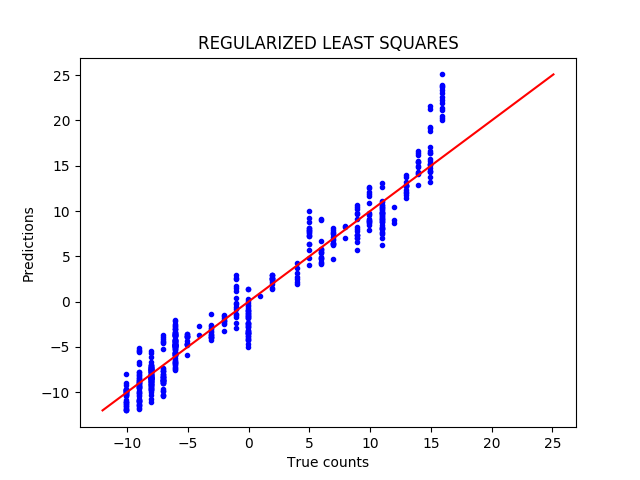
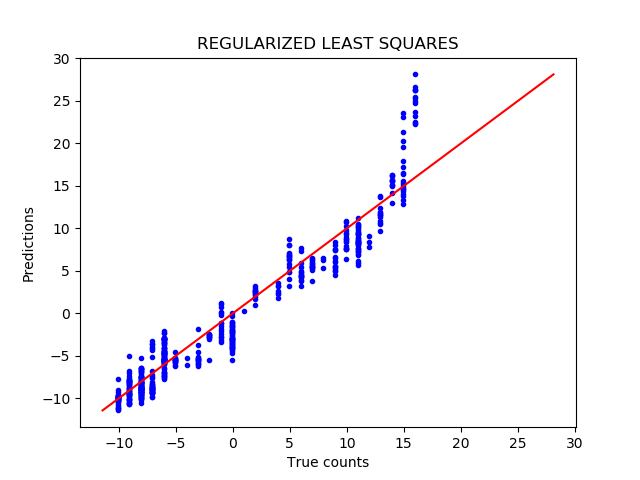
2b

diff --git a/src/common.py b/src/common.py
@@ -9,6 +9,9 @@ def generate_polynomial_features(x, polynomial_degree=5):
     return phi
 
 def generate_counting_features(x):
+    # for i in range(9):
+    #     print (np.amax(x[i]), np.amin(x[i]))
+
     x = x.T
     (num_samples, dimension) = x.shape
     #initialize with bias features
@@ -17,13 +20,15 @@ def generate_counting_features(x):
     #append normalized features
     for i in range(num_samples):
         for j in range(dimension):
-            phi[i].append((x[i][j] - min_counting_feature) / range_counting_feature)
+            phi[i].append((x[i][j] - min_counting_feature[j]) / range_counting_feature[j])
 
     #append 2nd order polinomial features
     for i in range(num_samples):
         for j in range(1, dimension + 1):
-            for k in range(j, dimension + 1):
-                phi[i].append(phi[i][j] * phi[i][k])
+            phi[i].append(phi[i][j] * phi[i][j])
+            for k in range(j+1, dimension + 1):
+                # print (j, k, phi[i][j] , phi[i][k])
+                phi[i].append(math.sqrt(phi[i][j] * phi[i][k]))
 
     phi = np.array(phi).T
     # print (phi.shape)

diff --git a/src/params.py b/src/params.py
@@ -21,6 +21,6 @@ cnt_sample_y_path = '../data/count_data_trainy.txt'
 cnt_gt_x_path = '../data/count_data_testx.txt'
 cnt_gt_y_path = '../data/count_data_testy.txt'
 
-max_counting_feature = 3.5
-min_counting_feature = -2.5
-range_counting_feature = max_counting_feature - min_counting_feature
+max_counting_feature = [1.75, 2.07, 2.38, 3.49, 3.46, 2.37, 2.25, 3.1, 2.61]
+min_counting_feature = [-1.5, -1.75, -2.32, -1.76, -1.39, -2.05, -1.67, -1.7, -2.2]
+range_counting_feature = [max_counting_feature[i] - min_counting_feature[i] for i in range(9)]

diff --git a/src/main_2b.py b/src/main_2b.py
@@ -1,7 +1,7 @@
 from params import *
 from least_squares import LeastSquares
 from regularized_least_squares import RegularizedLeastSquares
-from lasso import Lasso
+# from lasso import Lasso
 from robust_regression import RobustRegression
 from bayesian_regression import BayesianRegression
 from dataset import DataSet
@@ -222,6 +222,6 @@ def bayesian_regression():
 #
 deploy_least_square()
 deploy_regularized_least_squares()
-deploy_lasso()
+# deploy_lasso()
 deploy_robust_regression()
 bayesian_regression()
